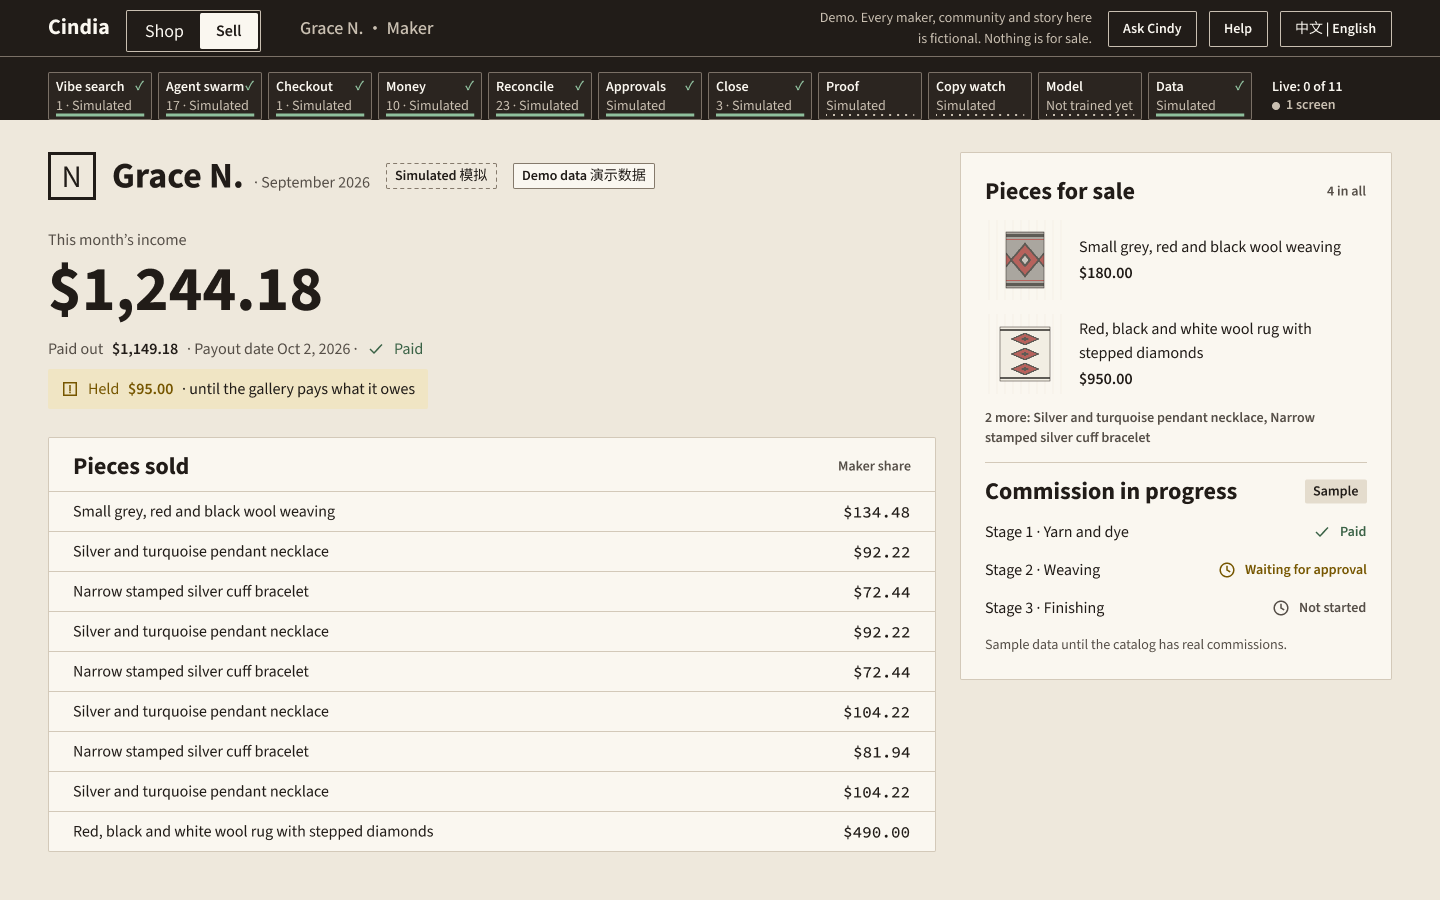
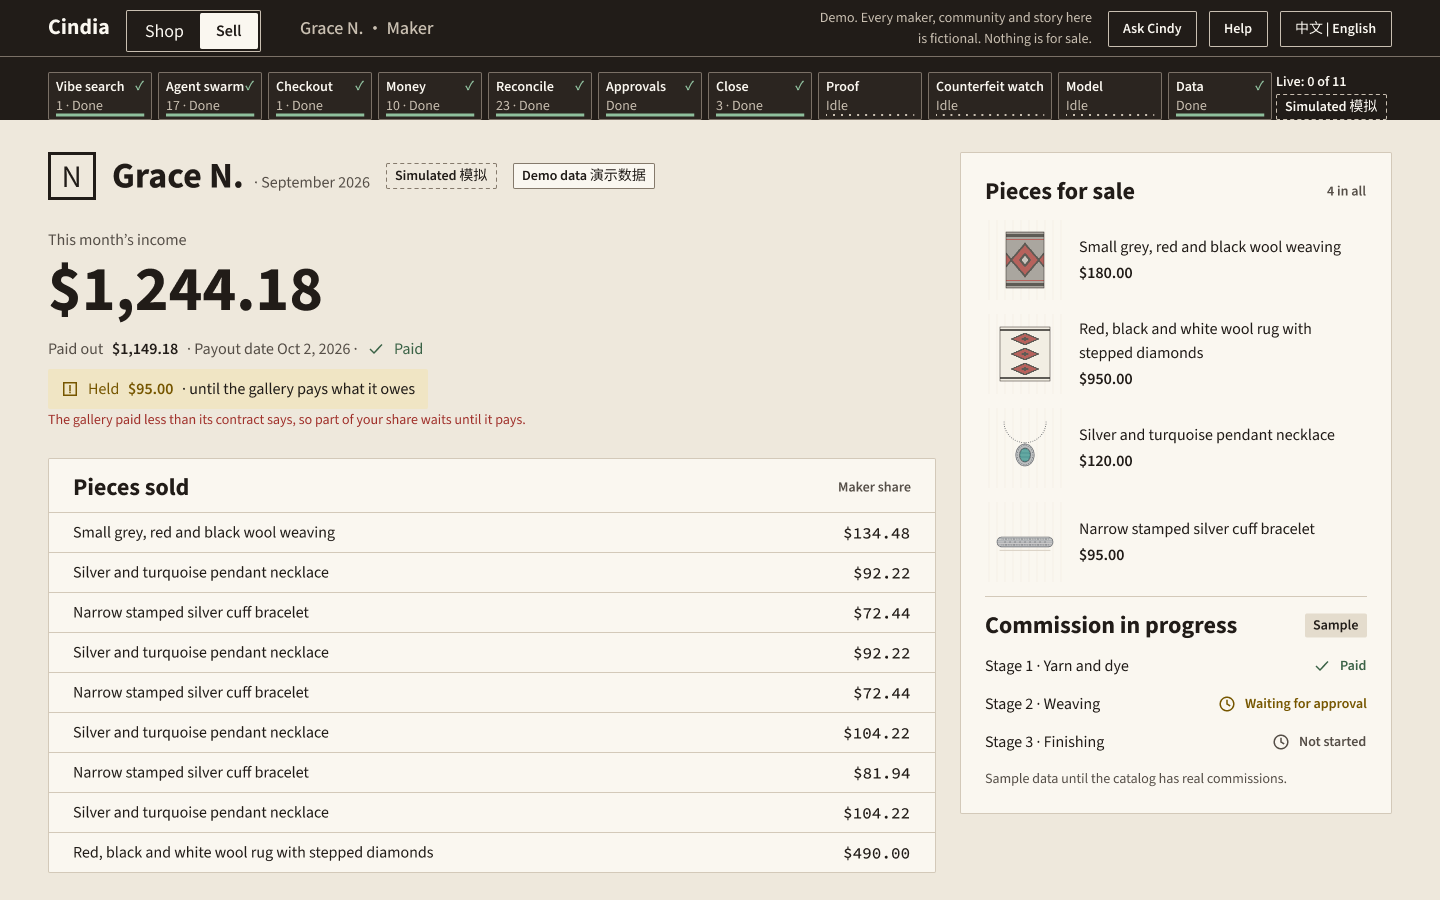
v2 fix: backend re-check fixes (still in progress, don't build from this commit)
Claude-Session: https://claude.ai/code/session_01JjbAis91jVj1phbgkn75Tj

diff --git a/docs/v2/contracts.md b/docs/v2/contracts.md
@@ -489,7 +489,7 @@ SpacetimeDB is the platform's system of record. Elastic is the search index buil
 ### B15 · the copy watch (`b15-watch`)
 
 - **`POST /api/b15/watch`** · `APIFY_TOKEN` or `APIFY_AUTH=proxy`, and `PUBLIC_SITE_URL` · answers at once · `{ "trigger", "runId", "idTag", "idStart", "scanId", "makerId", "queries" }` → status 202 with `{ "scanId", "status": "running" }` (not an events response). It starts the scan in a server thread, or joins the one already running for the same `idTag` and `scanId` (single flight). Scans are cached by maker for 30 minutes, with fresh IDs. A maker outside `com_dine` gets 400 `bad_request`, and without `PUBLIC_SITE_URL` it answers 503 `upstream_error`.
-- **`GET /api/b15/watch/{scanId}`** · no key · under 200 ms · `{ "status": "running" | "done" | "failed", "events": CindiaEvent[], "error": { "code", "message" } | null }`. `events` is empty until `done`. The adapter's `produce()` polls it every second until `done` or `failed`, inside its 59.5-second abort, and a failed scan throws, so the scripted scan plays.
+- **`GET /api/b15/watch/{scanId}?idTag=<tag>`** · no key · under 200 ms · `{ "status": "running" | "done" | "failed", "events": CindiaEvent[], "error": { "code", "message" } | null }`, or 404 `not_found` for a scan the server doesn't know under that `idTag`. `events` is empty until `done`. The adapter's `produce()` polls it every second until `done` or `failed`, inside its 59.5-second abort, and a failed scan throws, so the scripted scan plays.
 - **`GET /api/b15/status`** · no key · under 200 ms · `{ "market": boolean, "threshold": number, "measured": boolean, "model": boolean }` (not an events response). `market` is true when `PUBLIC_SITE_URL` is set. The adapter's `health()` needs `/api/health` to list `b15` with `keys.apify` true, then `market`. It doesn't wait on B11.
 - **The scan:**
   - Scout runs Apify's Cheerio Scraper (`apify/cheerio-scraper`, called as `apify~cheerio-scraper` through `run-sync-get-dataset-items` with `clean=true`) over the sandbox market at `<PUBLIC_SITE_URL>/market/`, with a 45-second budget. Its start URL is the market's index, and it follows only links inside `/market/`. It never fetches any other site, and it never contacts anyone. `docs/tech/apify/cheerio-scraper.md` has the input and output.

diff --git a/docs/harness/v2-runbook.md b/docs/harness/v2-runbook.md
@@ -147,7 +147,7 @@ Your own steps around the upgrades (builders can't install, publish or run serve
   - Write `scripts/train-akbari.sh` yourself, one line that runs `server/b11_embed/train_akbari.sh "$@"`, because a backend-builder can't write `scripts/`. It's for Gordon's optional run at the lab.
 - **B11, after any VM rebuild:** run `python server/b11_embed/fetch_model.py`, which pulls the newest published model back.
 - **If Gordon trains on the Akbari machine instead** (`scripts/train-akbari.sh`, his own `HF_TOKEN`), run `python server/b11_embed/fetch_model.py` once he says his run is published, then S3's T9 as above. The model, `vectors.json` and the index must share one fingerprint, or B11 refuses them.
-- **B13, after T1:** install the module's packages, then publish it to the local server with `spacetime publish -s local cindia`, run from `server/b13_spacetime/module/` the way `server/b13_spacetime/README.md` says. Never the CLI's Maincloud default.
+- **B13, after T1:** install the module's packages, then rerun T1's module build test (it skips while `module/node_modules` is missing), then publish it to the local server with `spacetime publish -s local cindia`, run from `server/b13_spacetime/module/` the way `server/b13_spacetime/README.md` says. Never the CLI's Maincloud default.
 - **B13, once `save_token.py` exists (its T4):** run `python server/b13_spacetime/save_token.py`. It writes the publisher's token to `.env` as `SPACETIME_TOKEN` without printing it. Restart `npm run server` and confirm `GET /api/b13/status` reports `spacetime: true`.
 - **B13, after T5:** `POST /api/b13/seed` once, or let the adapter do it in live mode.
 - **B13, before every recorded demo:** `spacetime call -s local cindia clear_runs`, so no old run shows in the swarm view.

diff --git a/docs/plans/I2-core.md b/docs/plans/I2-core.md
@@ -225,8 +225,7 @@ S3-catalog writes them. S3's T1 stubs cover every file in this table.
 
 - `npm run export:mock` runs `node scripts/export-mock.mjs`, which:
   - loads `src/mock/index.ts` through Vite's `createServer` with `appType: "custom"`, `server.middlewareMode: true`, `server.hmr: false` and `server.ws: false` where the installed Vite accepts it, so it opens no port (D2-30), then `ssrLoadModule`,
-  - writes `artifacts/mock/mock.json` in UTF-8: one top-level key per export of `src/mock/index.ts` whose value isn't a function, plus `_generatedAt`,
-  - so it carries `allApprovals` (`apr_01` to `apr_05`) and `allFollowUps` (`fup_01`, `fup_02`) once S3-catalog exports them from `src/mock/index.ts`. `getById()` is a function and never reaches the JSON, so the server's readers find every approval and follow-up only through these two lists,
+  - writes `artifacts/mock/mock.json` in UTF-8: one top-level key per export of `src/mock/index.ts` whose value isn't a function, plus `_generatedAt`. So it carries `allApprovals` (`apr_01` to `apr_05`) and `allFollowUps` (`fup_01`, `fup_02`) once S3-catalog exports them. `getById()` is a function and never reaches the JSON, so these two lists are how the server's readers find every approval and follow-up,
   - prints one line per key with its item count,
   - closes the server and exits 0. It's `cmd.exe`-safe.
 - `vite.config.ts`: `server.watch.ignored` adds `.venv`, `models`, `server` and `artifacts`, so torch's files never load the watcher (B2-31).

diff --git a/docs/plans/M-buyer.md b/docs/plans/M-buyer.md
@@ -165,7 +165,7 @@ Every spec opens the route named, reaches tour events with `seekToEvent` or `tou
 - Deploying the public site and checking it (D-deploy).
 
 ## Contract additions needed
-Settled in contracts section 11, I2-core and I2-shell, listed so a builder knows where each lives:
+Settled in contracts sections 4 and 11, I2-core and I2-shell, listed so a builder knows where each lives. Nothing is still open:
 1. **Navigation for features:** `navigate(path)` in `src/core/nav.ts` and the kit `Link` (prop `to`), which renders a real anchor and calls `navigate` on a plain click, so moving between pages never reloads the store.
 2. **Request row:** `piece.opened` from a person is answered on key `b10-derived` with a `split.shown` for that piece from `src/mock/splits.ts`, one split per piece under the `ch_cindia` money rules, with `pc_01`'s equal to figure 1. A `piece.opened` from the timeline isn't answered.
 3. **Request row:** `checkout.started` from a person, for a piece the timeline doesn't check out, has no key and is answered by a scripted `card.tokenized` (with the `pieceId`, a `tok_` token made from the piece ID with no randomness, brand `visa`, last four 4242), then `order.placed` (`orderId: "ord_user_<n>"`, `channelId: "ch_cindia"`, the piece's price) and `receipt.updated` (`received`). A person's orders stay out of the month, the ledger and the money map.
